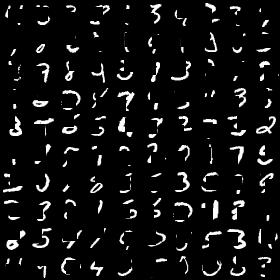
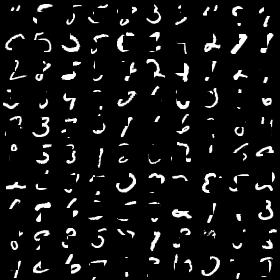
trained celeba model

diff --git a/inference.py b/inference.py
@@ -7,7 +7,7 @@ from utils import *
 from imageio import imwrite
 from tqdm import tqdm
 from datasets import mnist_train_val_datasets, celeba_train_val_datasets
-
+from sys import argv
 """
 Examples for inference using the trained MFA model - likelihood evaluation and (conditional) reconstruction
 """
@@ -16,7 +16,7 @@ Examples for inference using the trained MFA model - likelihood evaluation and (
 
 
 if __name__ == "__main__":
-    dataset = 'mnist'
+    dataset = dataset = argv[1] if len(argv) == 2 else 'mnist'
     find_outliers = False
     reconstruction = True
     inpainting = True
@@ -35,7 +35,7 @@ if __name__ == "__main__":
         # test_dataset = CelebA(root='./data', split='test', transform=trans, download=True)
         # The train set has more interesting outliers...
         # test_dataset = CelebA(root='./data', split='train', transform=trans, download=True)
-        train_dataset, test_dataset = mnist_train_val_datasets(with_mask=True)
+        train_dataset, test_dataset = celeba_train_val_datasets(with_mask=True)
     elif dataset == 'mnist':
         image_shape = [28, 28]  # The input image shape
         n_components = 50  # Number of components in the mixture model
@@ -65,7 +65,7 @@ if __name__ == "__main__":
         model.load_state_dict(
             torch.load(os.path.join(model_dir, 'model_c_{}_l_{}_init_kmeans.pth'.format(n_components, n_factors))))
     else:
-        model.load_state_dict(torch.load(os.path.join(model_dir, 'model_c_{}_l_{}.pth'.format(n_components, n_factors))))
+        model.load_state_dict(torch.load(os.path.join(model_dir, 'model_c_{}_l_{}_init_rnd_samples.pth'.format(n_components, n_factors))))
 
     if find_outliers:
         print('Finding dataset outliers...')
@@ -97,36 +97,36 @@ if __name__ == "__main__":
         # print(random_samples.shape, mask.shape)
 
         if inpainting:
-            if dataset == "mnist":
-                # Hide part of each image
+            # if dataset == "mnist":
+            # Hide part of each image
 
-                original_full_samples = random_samples.clone()
-                random_samples *= masks
+            original_full_samples = random_samples.clone()
+            random_samples *= masks
 
-                reconstructed_samples = []
-                for samp, msk, orig, in tqdm(zip(random_samples, masks, original_full_samples)):
-                    used_features = torch.nonzero(msk.flatten()).flatten()
+            reconstructed_samples = []
+            for samp, msk, orig, in tqdm(zip(random_samples, masks, original_full_samples)):
+                used_features = torch.nonzero(msk.flatten()).flatten()
 
-                    rec_samp, means_samples, A_samples, D_samples, reconstructed_A, log_likelihood = model.conditional_reconstruct(
-                        samp.to(device).unsqueeze(0),
-                        observed_features=used_features, 
-                        original_full_samples = orig.unsqueeze(0)
-                    )#.cpu()
+                rec_samp, means_samples, A_samples, D_samples, reconstructed_A, log_likelihood = model.conditional_reconstruct(
+                    samp.to(device).unsqueeze(0),
+                    observed_features=used_features, 
+                    original_full_samples = orig.unsqueeze(0)
+                )#.cpu()
 
-                    reconstructed_samples.append(rec_samp)
-                reconstructed_samples = torch.stack(reconstructed_samples).squeeze()
+                reconstructed_samples.append(rec_samp)
+            reconstructed_samples = torch.stack(reconstructed_samples).squeeze()
 
-            else:
-                # Hide part of each image
-                w = image_shape[0]
-                mask = np.ones([3, w, w], dtype=np.float32)
-                # mask[:, w//4:-w//4, w//4:-w//4] = 0
-                mask[:, :, w//2:] = 0
-                mask = torch.from_numpy(mask.flatten()).reshape([1, -1])
-                original_full_samples = random_samples.clone()
-                random_samples *= mask
-                used_features = torch.nonzero(mask.flatten()).flatten()
-                reconstructed_samples = model.conditional_reconstruct(random_samples.to(device), observed_features=used_features).cpu()
+            # else:
+            #     # Hide part of each image
+            #     w = image_shape[0]
+            #     mask = np.ones([3, w, w], dtype=np.float32)
+            #     # mask[:, w//4:-w//4, w//4:-w//4] = 0
+            #     mask[:, :, w//2:] = 0
+            #     mask = torch.from_numpy(mask.flatten()).reshape([1, -1])
+            #     original_full_samples = random_samples.clone()
+            #     random_samples *= mask
+            #     used_features = torch.nonzero(mask.flatten()).flatten()
+            #     reconstructed_samples = model.conditional_reconstruct(random_samples.to(device), observed_features=used_features).cpu()
         else:
             reconstructed_samples = model.reconstruct(random_samples.to(device)).cpu()
 
